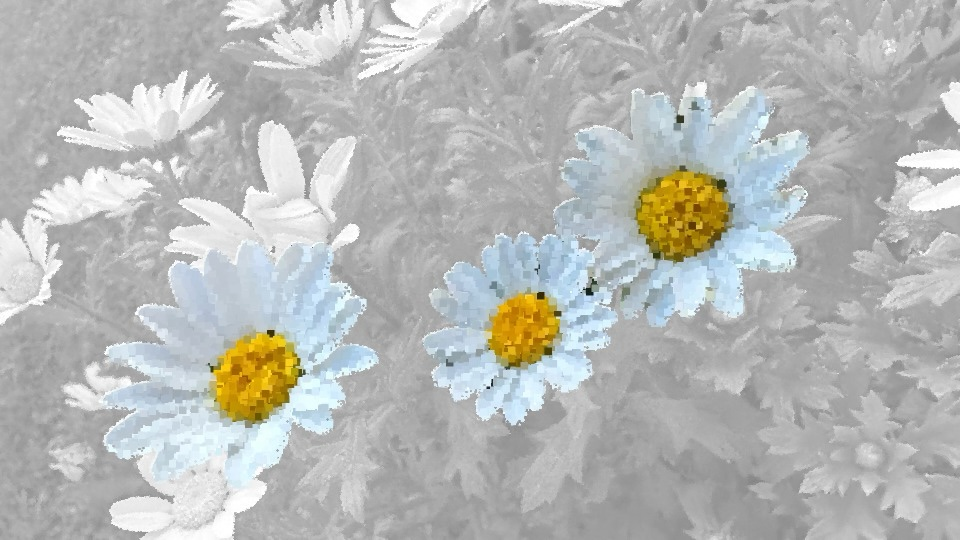
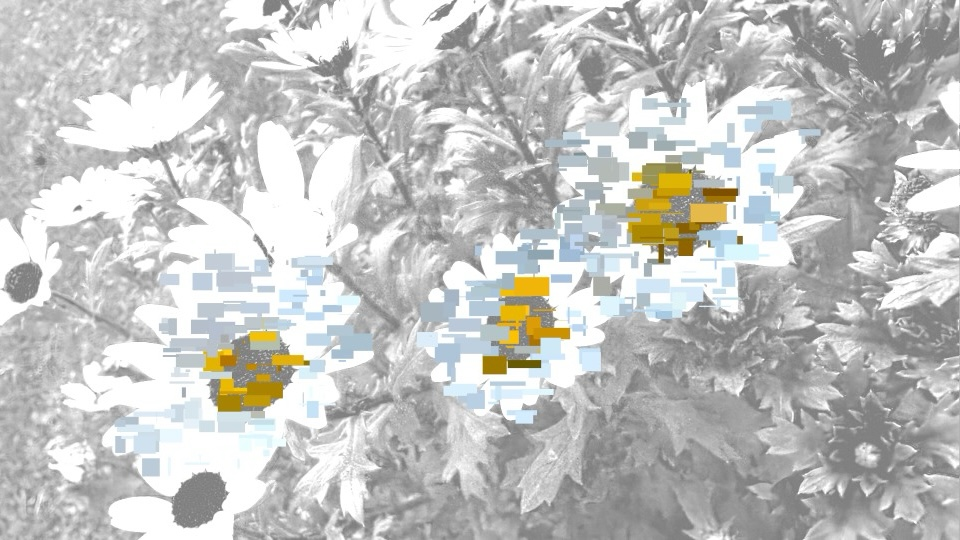
Pixelated and glitching effect on flowers

diff --git a/sketch.js b/sketch.js
@@ -34,7 +34,6 @@ function draw () {
         let y = col; 
         let pixData = sourceImg.get(x, y);
         let c = color(pixData);
-
         colorMode(HSB, 360, 100, 100);
         let b = brightness(c);
 
@@ -48,21 +47,48 @@ function draw () {
     updatePixels();
   }
 
+  // if(curLayer == 1){
+  //   for(let i=0;i<200;i++) {
+  //     colorMode(RGB);
+  //     let x = floor(random(sourceImg.width));
+  //     let y = floor(random(sourceImg.height));
+  //     let pixData = sourceImg.get(x1, y1);
+  //     let maskData = maskImg.get(x1, y1);
+  //     fill(pixData);
+
+  //     if(maskData[0] > 128) {
+  //       set(i, j);
+  //       // ellipse(x, y, 1, 1);
+  //     }
+  //   }
+  // }
+
   if(curLayer == 1){
-    for(let i=0;i<4000;i++) {
+    for(let i=0;i<200;i++) {
+      let x1 = random(0, width);
+      let y1 = random(0, height);
+      let x2 = x1 + random(-75, 75);
+      let y2 = y1 + random(-40, 40);
+
+      rectMode(CORNERS);
       colorMode(RGB);
-      let x = floor(random(sourceImg.width));
-      let y = floor(random(sourceImg.height));
-      let pixData = sourceImg.get(x, y);
-      let maskData = maskImg.get(x, y);
+      // let x = floor(random(sourceImg.width));
+      // let y = floor(random(sourceImg.height));
+      let pixData = sourceImg.get(x1, y1);
+      let maskData = maskImg.get(x1, y1);
       fill(pixData);
 
       if(maskData[0] > 128) {
-        let pointSize = 15;
-        rect(x, y, pointSize, pointSize);  
+        rect(x1, y1, x2, y2);
+        // set(x, y);
+        // let pointSize = 15;
+        // rect(x, y, pointSize, pointSize);  
       }
     }
   }
+
+
+  
   renderCounter = renderCounter + 1;
   if(renderCounter > 1 && curLayer == 0) {
   renderCounter = 0; 
